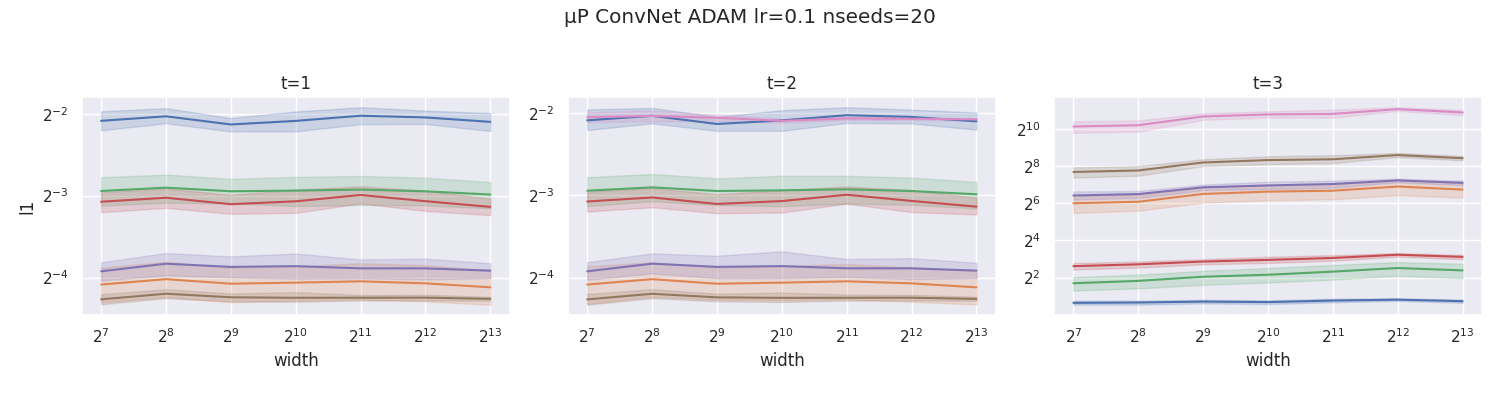
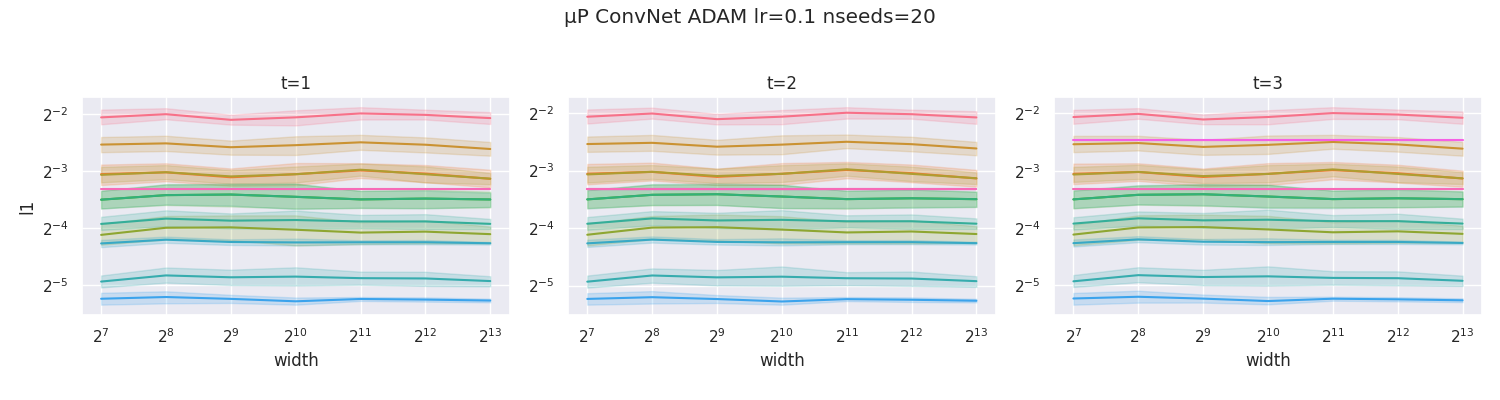
Add stuff

Changed region(s): [[0.0307, 0.27, 0.9813, 0.78]]

diff --git a/train_ensemble_fusion_mup.py b/train_ensemble_fusion_mup.py
@@ -1,6 +1,7 @@
 import torch
 import torchvision
 import torchvision.transforms as transforms
+import torch.nn.functional as F
 import torch.nn as nn
 import torch.optim as optim
 from torch.optim.lr_scheduler import ExponentialLR
@@ -9,9 +10,15 @@ from einops.layers.torch import Rearrange
 from einops import rearrange
 
 import mup
-from mup import MuReadout, MuAdam, get_shapes, make_base_shapes, set_base_shapes
+from mup import MuReadout, MuSharedReadout, MuAdam, get_shapes, make_base_shapes, set_base_shapes
+from mup.coord_check import get_coord_data, plot_coord_data
 
 import pickle
+import numpy as np
+
+import torch
+import numpy as np
+import random
 
 # Prepare the CIFAR-10 dataset
 def get_data_loaders(batch_size=128, augment=True):
@@ -102,66 +109,92 @@ def validate_model(model_ensemble, val_loader, criterion):
     print(f'Validation set: Average loss: {val_loss:.4f}, Accuracy: {correct}/{len(val_loader.dataset)} ({accuracy:.0f}%)')
 
 class ModelClass(nn.Module):
-    def __init__(self, width=120): # try 130 as alternative
+    def __init__(self, width=120, num_models=1):
         super().__init__()
-        self.conv1 = nn.Conv2d(3, 6, 5)
-        self.conv2 = nn.Conv2d(6, 16, 5)
-        self.maxpool = nn.MaxPool2d(2, 2)
-        self.relu = nn.ReLU()
-        self.fc1 = nn.Linear(16 * 5 * 5, width)
-        self.fc2 = nn.Linear(width, int(width*0.7))
-        self.fc3 = MuReadout(int(width*0.7), 10)
-
-    def forward(self, x):
-        x = self.maxpool(self.relu(self.conv1(x)))
-        x = self.maxpool(self.relu(self.conv2(x)))
-        x = rearrange(x, 'b c h w -> b (c h w)')
-        return self.fc3(self.relu(self.fc2(self.relu(self.fc1(x)))))
-
-class ModelEnsemble(nn.Module): 
-    def __init__(self, num_models): 
-        super().__init__() 
-        self.num_models = num_models 
-
-        models = []
-
-        for i in range(num_models): 
-            model = ModelClass()
-            set_base_shapes(model, 'single_base.bsh')
-            models.append(model)
-
-        self.models = nn.ModuleList(models) 
+        self.width = width
+        self.num_models = num_models
+        self.models = nn.ModuleList([self._create_single_model() for _ in range(num_models)])
         self.softmax = nn.Softmax(dim=1)
+        self.classifier = MuReadout(int(self.width*0.5), 10, readout_zero_init=True)
+
+    def _create_single_model(self):
+        model = nn.Sequential(
+            nn.Conv2d(3, 6, 5),
+            nn.ReLU(),
+            nn.MaxPool2d(2, 2),
+            nn.Conv2d(6, 16, 5),
+            nn.ReLU(),
+            nn.MaxPool2d(2, 2),
+            nn.Flatten(),
+            nn.Linear(16 * 5 * 5, self.width),
+            nn.ReLU(),
+            nn.Linear(self.width, int(self.width*0.5)),
+            nn.ReLU(),
+        )
+        return model
 
     def forward(self, x):
-        parallel_outputs = [model(x) for model in self.models]
+        parallel_outputs = [self.classifier(model(x)) for model in self.models]
+        # avg_output = torch.mean(torch.stack(parallel_outputs), dim=0)
+        # avg_output = self.softmax(avg_output)
         softmax_outputs = [self.softmax(output) for output in parallel_outputs]
 
         # Average the softmax probabilities
         avg_output = torch.mean(torch.stack(softmax_outputs), dim=0)
         return avg_output
 
+        return avg_output
 
 def save_base_shapes(model, save_path):
     base_shapes = get_shapes(model)
     delta_shapes = get_shapes(ModelClass(width=130))  # Create another instance for delta shapes
     make_base_shapes(base_shapes, delta_shapes, savefile=save_path)
 
+
 # Main function
-def main(num_models=3):
+def main(num_models=3, do_coord_check=False):
     train_loader, val_loader = get_data_loaders()
 
-    model_ensemble = ModelEnsemble(num_models).to('cuda')
+    model = ModelClass(width=1200)
+    save_base_shapes(model, 'single_base.bsh')
+
+    def gen(w):
+        def f():
+            assert w*0.5 % 1 == 0 # check that this is an integer
+            model = ModelClass(width=w).to('cuda')
+            set_base_shapes(model, 'single_base.bsh')
+            return model
+        return f
+
+
+    set_base_shapes(model, 'single_base.bsh')
+    model=model.to('cuda')
 
     criterion = nn.CrossEntropyLoss()
-    optimizer = MuAdam(model_ensemble.parameters(), lr=0.001, weight_decay=5e-4)
+    optimizer = MuAdam(model.parameters(), lr=0.001, weight_decay=5e-4)
     scheduler = ExponentialLR(optimizer, gamma=0.2)
 
+    if do_coord_check: 
+
+        widths = 2**np.arange(7, 14)
+        models = {w: gen(w) for w in widths}
+
+        df = get_coord_data(models, train_loader, mup=mup, lr=0.1, optimizer='adam', flatten_input=False, nseeds=20, nsteps=3, lossfn='xent')
+
+        prm = 'μP'
+        return plot_coord_data(
+            df, 
+            legend=False,
+            save_to=f'{prm.lower()}_convnet_adam_coord_{num_models}_model_fusion.png',
+            suptitle=f'{prm} {num_models} ConvNet fusion ADAM lr={0.1} nseeds={20}',
+            face_color=None
+        )
+
     for epoch in range(80):
-        train_model(model_ensemble, train_loader, optimizer, criterion, epoch)
-        validate_model(model_ensemble, val_loader, criterion)
+        train_model(model, train_loader, optimizer, criterion, epoch)
+        validate_model(model, val_loader, criterion)
         if epoch in [29, 49, 69]:
             scheduler.step()
 
 if __name__ == "__main__":
-    main(num_models=3)  # Change this value to set the number of models in the ensemble
+    main(num_models=5, do_coord_check=False) # Change this value to set the number of models in the ensemble

diff --git a/single_model_mup.py b/single_model_mup.py
@@ -131,7 +131,7 @@ def validate_model(model_ensemble, val_loader, criterion):
     print(f'Validation set: Accuracy: {correct}/{len(val_loader.dataset)} ({accuracy:.0f}%)')
 
 class ModelClass(nn.Module):
-    def __init__(self, width=120): # try 130 as alternative
+    def __init__(self, width=120):
         super().__init__()
         self.conv1 = nn.Conv2d(3, 6, 5)
         self.conv2 = nn.Conv2d(6, 16, 5)

diff --git a/README.md b/README.md
@@ -39,8 +39,13 @@ Note: network was change to width*0.5 instead of 0.7, will need to retrain basel
 
 # Same settings but with muP: 
 For validation after 80 epochs: 
-training 1 model: acc 69%, train loss 0.082
-training 3 models with fusion: acc 61%, train loss 1.88
+training 1 model: acc 69%, train loss 0.826
+training 5 models with shared classifier head -> avg logits -> softmax:
+                : acc 61%, train loss 1.88
+same but avg after softmax instead: acc 63%, train loss 1.88, seems within margin of error
+
+
+
 
 Other observations: seems like it converged much faster? Like within half the time. Doesn't seem to fix the ensembling problem - I think it mostly has to do with the way the probabilities are directly averaged, definitely has negative effects. Seems like train loss settles at about the same place but I think this is a good starting research problem: Investigate how to scale model ensembles correctly which feeds into scaling modalities
 
